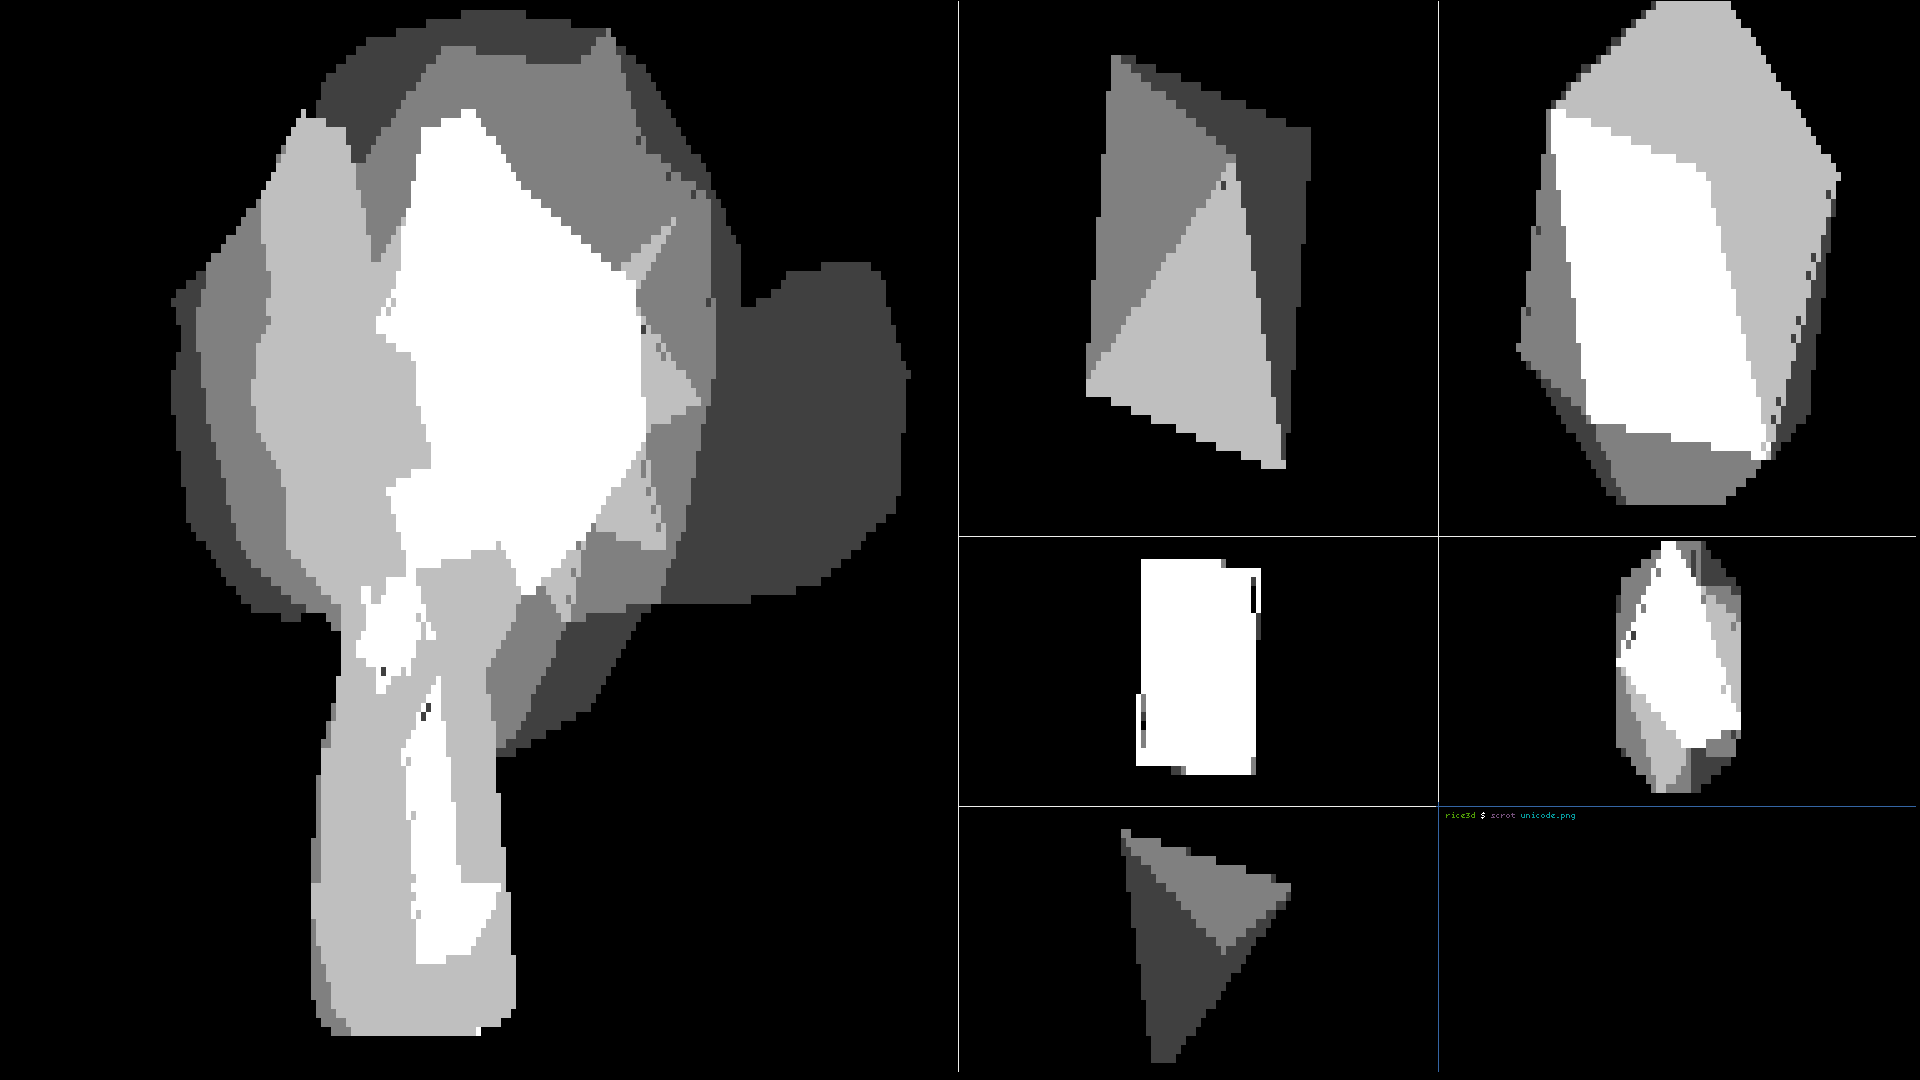
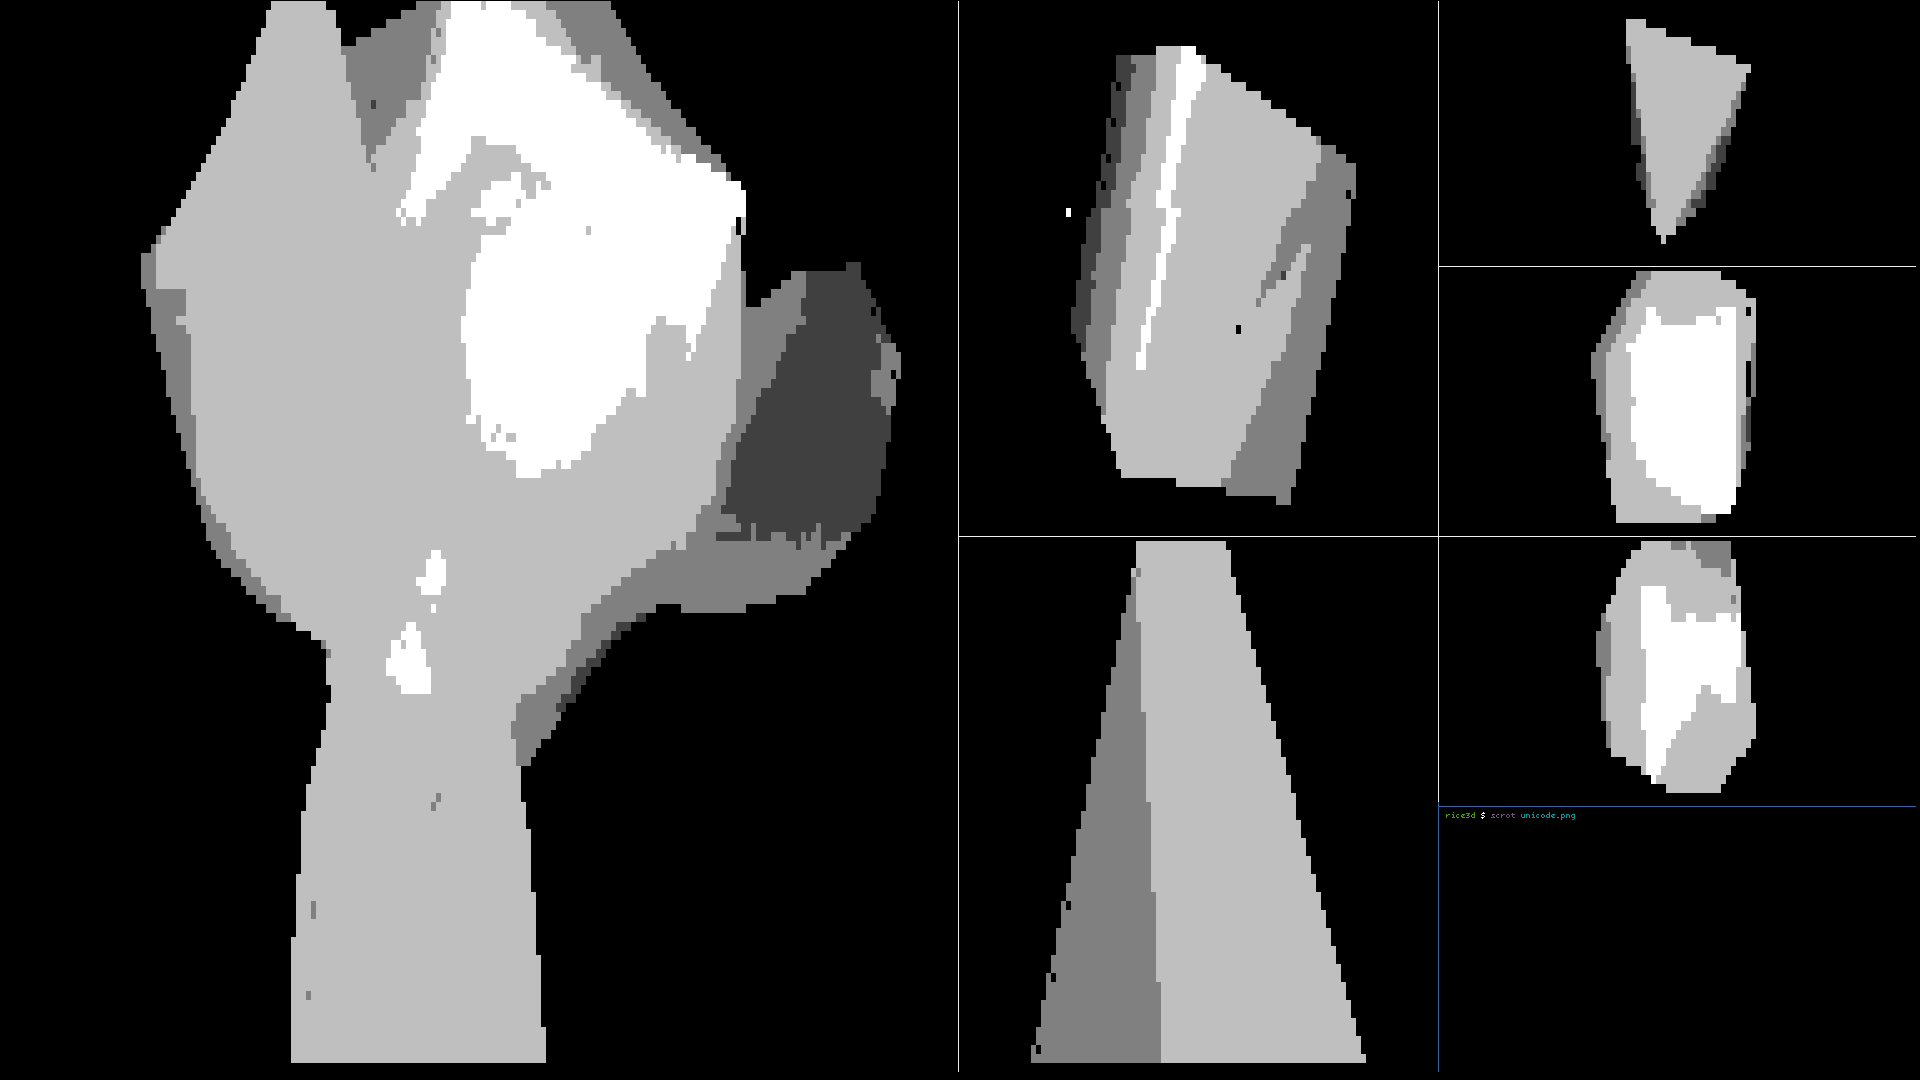
Added smooth shading and perspective

diff --git a/rice3d.py b/rice3d.py
@@ -39,14 +39,27 @@ zoomfactor = min(width,height)
 backgroundchar = " "
 engine_version = "0.6"
 
-# higher number -> harder shadows border
-shadow_sharpness = 1.1
-# Higher number -> darker
-shadow_intensity = 0.2
+
+smooth_shading = True
+
+draw_faces = True
+draw_wireframe = False
 
 
-ascii_gradient = "░▒▓█"
+ascii_gradient = " ░▒▓█"
 # ascii_gradient = ".:;+=xX$&"
+
+def char_from_color(v,min_v = -1,mav_v = 1):
+
+    # go from range min_v,mav_v to [0,1]
+    d = (v - min_v) / (mav_v - min_v)
+
+    gi =int(d*(len(ascii_gradient))-0.5)
+    if gi >= len(ascii_gradient):
+        gi = len(ascii_gradient)-1
+    elif gi<0:
+        gi = 0
+    return ascii_gradient[gi]
 
 draw_borders = False
 
@@ -89,7 +102,7 @@ class Keypress():
     u      =  False
     i      =  False
 
-white = "W"
+white = 1
 
 class Point():
     def __init__(self,x,y,z,color=white):
@@ -145,7 +158,6 @@ def point_relative_to_camera(point,camera):
     x = point.x - camera.x
     y = point.y - camera.y
     z = point.z - camera.z
-    color = point.color
 
     # shorthands so the projection formula is easier to read
     sx,cx,sy,cy,sz,cz = (sin(camera.u),
@@ -162,8 +174,21 @@ def point_relative_to_camera(point,camera):
                sx* (cy*z + sy*(sz*y + cz*x)) + cx*(cz*y-sz*x),
                cx* (cy*z + sy*(sz*y + cz*x)) - sx*(cz*y-sz*x))
 
+
+
+    # add depth perception
+
+    # get a z > 0 to avoid diving by zero
+    z_tmp = max(0.01,z+2) * 0.5
+    # multiple by z axis to get perspective
+    x*= z_tmp
+    y*= z_tmp
+
+
     # to zoom in/out we multiply each coordinte by a factor
     x,y,z = map(lambda a:a * camera.zoom,[x,y,z])
+
+    color = point.color * (z / camera.zoom)
 
     return Point(x,y,z,color)
 
@@ -176,17 +201,21 @@ def draw_pixel(_x,_y,color=white):
     if (x >= 0 and x < width) and (y >= 0 and y < height):
         screen[y][x] = color
 
-def draw_line(x1,y1,x2,y2,color=white):
+def draw_line(x1,y1,x2,y2,c1,c2):
     steps = max(abs(x1-x2),abs(y1-y2))
+    if not smooth_shading:
+        c1 = (c1+c2)/2
+        c2 = c1
     if steps>0:
         for s in range(int(steps+1)):
             r1 = s/steps
             r2 = 1-r1
             x = r1*x1 + r2*x2
             y = r1*y1 + r2*y2
-            draw_pixel(x,y,color)
+            char = char_from_color(c1*r1 + c2*r2)
+            draw_pixel(x,y,char)
     else:
-        draw_pixel(x1,y2,color)
+        draw_pixel(x1,y2,char_from_color(c1))
 
 def draw_line_relative(line,camera):
     p1 = point_relative_to_camera(line.p1,camera)
@@ -199,20 +228,13 @@ def draw_triangle_relative(triangle,camera):
     p2 = point_relative_to_camera(triangle.p2,camera)
     p3 = point_relative_to_camera(triangle.p3,camera)
 
-    # simply use the z axis depth for shading
-    d = (1 + (p1.z+p2.z+p3.z)/3) / camera.zoom
+    if not smooth_shading:
+        # make all 3 points the same color
+        c = (p1.color+p2.color+p3.color)/3
+        p1.color = c
+        p2.color = c
+        p2.color = c
 
-    gi =int(d*len(ascii_gradient))
-    if gi >= len(ascii_gradient):
-        gi = len(ascii_gradient)-1
-    elif gi<0:
-        gi = 0
-
-    # triangle color
-    c = ascii_gradient[gi]
-    # edge color (change for wireframe render)
-    # lc = ascii_gradient[gi//2]
-    lc = c
 
     p_left,p_mid,p_right = sorted([p1,p2,p3],key = lambda z:z.x)
 
@@ -223,7 +245,7 @@ def draw_triangle_relative(triangle,camera):
 
     y_new = (1-x_ratio)*p_left.y + (x_ratio)*p_right.y
 
-    p_new = Point(p_mid.x,y_new,p_mid.z)
+    p_new = Point(p_mid.x,y_new,p_mid.z,(p_left.color + p_right.color)/2)
 
     p_up = p_new
     p_down = p_mid
@@ -231,32 +253,58 @@ def draw_triangle_relative(triangle,camera):
     if y_new < p_mid.y:
         p_up,p_down=p_down,p_up
 
-    # Draw left part of triangle
-    if p_left.x < p_up.x:
-        slope1 = (p_up.y - p_left.y)/(p_up.x - p_left.x)
-        slope2 = (p_down.y - p_left.y)/(p_up.x - p_left.x)
-        y_1 = p_left.y
-        y_2 = p_left.y
-        for x in range(int(p_left.x),int(p_up.x)):
-            draw_line(x,y_1,x,y_2,c)
-            y_1 += slope1
-            y_2 += slope2
+    if draw_faces:
+        # Draw left part of triangle
+        if p_left.x < p_up.x:
+            slope1 = (p_up.y - p_left.y)/(p_up.x - p_left.x)
+            slope2 = (p_down.y - p_left.y)/(p_up.x - p_left.x)
+            y_1 = p_left.y
+            y_2 = p_left.y
 
-    # Draw right part of triangle
-    if p_up.x < p_right.x:
-        slope1 = (p_right.y - p_up.y)/(p_right.x - p_up.x)
-        slope2 = (p_right.y - p_down.y)/(p_right.x - p_up.x)
-        y_1 = p_up.y
-        y_2 = p_down.y
-        for x in range(int(p_up.x),int(p_right.x)):
-            draw_line(x,y_1,x,y_2,c)
-            y_1 += slope1
-            y_2 += slope2
+            color_up = p_left.color
+            color_down = p_left.color
+            dcolor_up = (p_up.color - p_left.color)/(p_up.x - p_left.x)
+            dcolor_down = (p_down.color - p_left.color)/(p_down.x - p_left.x)
 
-    draw_line(p_left.x  ,p_left.y,  p_up.x, p_up.y, lc)
-    draw_line(p_right.x ,p_right.y, p_up.x, p_up.y, lc)
-    draw_line(p_left.x  ,p_left.y,  p_down.x, p_down.y, lc)
-    draw_line(p_right.x ,p_right.y, p_down.x, p_down.y, lc)
+            for x in range(int(p_left.x),int(p_up.x)):
+                draw_line(x,y_1,x,y_2,color_up,color_down)
+                y_1 += slope1
+                y_2 += slope2
+                color_up += dcolor_up
+                color_down += dcolor_down
+
+        # Draw right part of triangle
+        if p_up.x < p_right.x:
+            slope1 = (p_right.y - p_up.y)/(p_right.x - p_up.x)
+            slope2 = (p_right.y - p_down.y)/(p_right.x - p_up.x)
+            y_1 = p_up.y
+            y_2 = p_down.y
+
+            color_up = p_up.color
+            color_down = p_down.color
+            dcolor_up = (p_up.color - p_right.color)/(p_up.x - p_right.x)
+            dcolor_down = (p_down.color - p_right.color)/(p_down.x -p_right.x)
+
+            for x in range(int(p_up.x),int(p_right.x)):
+                draw_line(x,y_1,x,y_2,color_up,color_down)
+                y_1 += slope1
+                y_2 += slope2
+                color_up += dcolor_up
+                color_down += dcolor_down
+
+    if draw_wireframe:
+        draw_line(p_left.x  ,p_left.y,  p_up.x, p_up.y, 0,0)
+        draw_line(p_right.x ,p_right.y, p_up.x, p_up.y, 0,0)
+        draw_line(p_left.x  ,p_left.y,  p_down.x, p_down.y, 0,0)
+        draw_line(p_right.x ,p_right.y, p_down.x, p_down.y, 0,0)
+    else:
+        draw_line(p_left.x  ,p_left.y,  p_up.x, p_up.y, p_left.color, p_up.color)
+        draw_line(p_right.x ,p_right.y, p_up.x, p_up.y, p_right.color, p_up.color)
+        draw_line(p_left.x  ,p_left.y,  p_down.x, p_down.y, p_left.color, p_down.color)
+        draw_line(p_right.x ,p_right.y, p_down.x, p_down.y, p_right.color, p_down.color)
+
+
+
 
 def draw_triangle_relative_buffered(triangle,camera):
     "Collect depth of all triangles, buffer them and draw them in order"
@@ -1273,7 +1321,7 @@ model_tetrahedron = [Triangle(Point(0,-1,1) ,Point(0,-1,-1),Point(-1,1,0)),
                      Triangle(Point(1,1,0)  ,Point(-1,1,0)  ,Point(0,-1,1)),
                      Triangle(Point(1,1,0)  ,Point(-1,1,0)  ,Point(0,-1,-1)),]
 
-cube_point = [Point(x,y,z) for x in [-.8,.8] for y in [-.8,.8] for z in [-.8,.8]]
+cube_point = [Point(x,y,z) for x in [-.6,.6] for y in [-.6,.6] for z in [-.6,.6]]
 model_cube = [Triangle(cube_point[0b000],cube_point[0b001],cube_point[0b010]),
               Triangle(cube_point[0b001],cube_point[0b010],cube_point[0b011]),
               Triangle(cube_point[0b100],cube_point[0b101],cube_point[0b110]),
